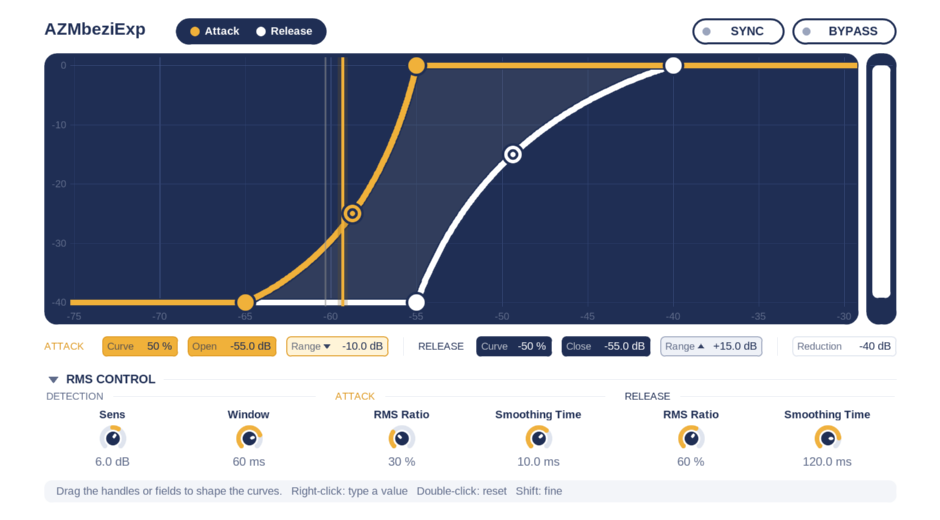
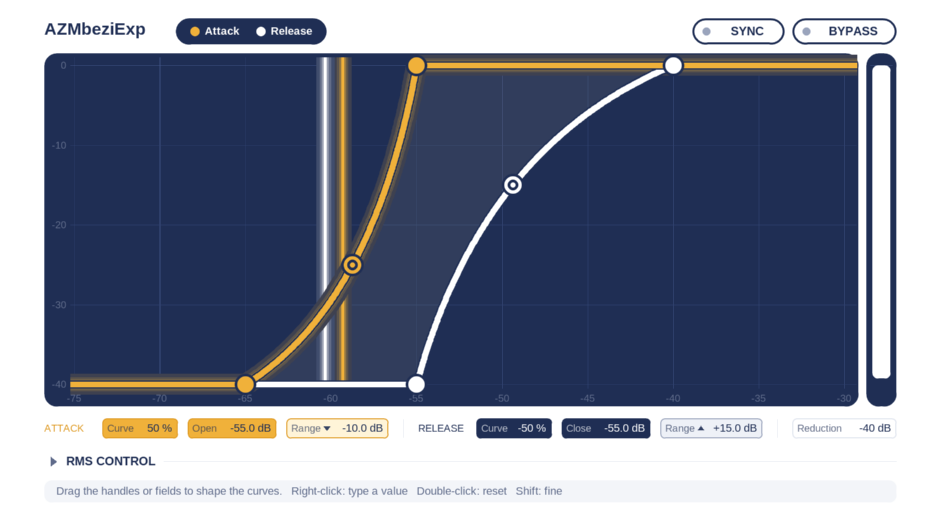
Glow the active curve, restyle detection bars, start with RMS Control closed
- Detection bars: curve colours, same glow as the curves, drawn behind them, constant look
- Remove the afterimage trail
- Glow the curve that decides the target gain (2 ms smoothing)
- RMS Control defaults to closed

Changed region(s): [[0.0309, 0.0923, 0.9564, 0.8923]]

diff --git a/tests/test_ysfx.cpp b/tests/test_ysfx.cpp
@@ -297,7 +297,7 @@ static void test_defaults()
     Effect e;
     const double expected[][2] = {
         {1, 60}, {2, 10}, {3, -55}, {4, 60}, {6, -55}, {7, 15}, {8, -60},
-        {9, 6}, {10, 60}, {11, 10}, {12, 120}, {13, 30}, {14, 60}, {16, 1},
+        {9, 6}, {10, 60}, {11, 10}, {12, 120}, {13, 30}, {14, 60}, {16, 0},
     };
     for (const auto &entry : expected)
         near(e.get(int(entry[0])), entry[1], 1e-9, "default value");
@@ -401,45 +401,57 @@ static void test_axis_and_screenshot()
     }
 }
 
-// Detection bars: line only (no labels), a short afterimage trail, and fade-out near the graph edge.
+// Detection bars: lines in the curve colours with the same glow, constant and behind the curves (no
+// labels), fading out near the graph edge; the curve that decides the target gain glows as well.
 static void test_detection_bars()
 {
     Gui e;
     e.settle();
-    auto red = [&](double x, double y) { return int(e.pixels[(size_t(y) * 940 + size_t(x)) * 4 + 2]); };
+    auto px = [&](double x, double y, int ch) { return int(e.pixels[(size_t(y) * 940 + size_t(x)) * 4 + ch]); };
+    auto red = [&](double x, double y) { return px(x, y, 2); };
+    auto peak = [&](double x, double y) {
+        int m = 0;
+        for (int d = -2; d <= 2; ++d) m = std::max(m, red(x + d, y));
+        return m;
+    };
+    auto blue = [&](double x, double y) { return px(x, y, 0); };
     // The displayed level decays slightly between frames, so positions are read back after each frame.
-    auto frame = [&](double a) {
+    auto frame = [&](double a, double up) {
         e.set_var("m_a", 0); e.set_var("m_r", 0);
         e.set_var("ui_a", a); e.set_var("ui_r", -120);
-        e.set_var("m_up", 1); e.set_var("ui_hl", 1);
+        e.set_var("m_up", up); e.set_var("ui_hl", up);
         e.mouse(0, 0, 0);
         return e.xpix(e.var("ui_a"));
     };
     double y = e.px("pl_y") + 120;
 
-    double x1 = frame(-47);
-    int bar = red(x1, y);
-    check(bar > 150, "attack bar is drawn at the detected level");
+    double x1 = frame(-47, 1);
+    int bar = peak(x1, y);
+    check(bar > 200, "attack bar is crisp at the detected level");
+    check(red(x1 + 14, y) < 100 && red(x1 - 14, y) < 100, "no wide fill beside the bar");
     check(red(x1 + 15, e.px("pl_y") + 32 + 7) < 100, "no label chip next to the bar");
+    check(red(x1 + 6, y) > red(x1 + 14, y) + 10, "the bar has a glow around it");
+    double x1i = frame(-47, 0);
+    check(std::abs(peak(x1i, y) - bar) <= 10, "the bar looks the same whichever side decides the gain");
 
-    double x2 = frame(-37);
-    double ts[4];
-    ysfx_read_vmem(e.fx, uint32_t(e.var("TH")), ts, 4);
-    near(ts[0], e.var("ui_a"), 1e-9, "newest history entry is the current attack level");
-    near(ts[2], -47, 0.5, "previous attack level is kept for the trail");
-    int ghost = red(x1, y);
-    check(ghost > 50 && ghost < bar, "previous position remains as a faint afterimage");
-    check(red(x2, y) > ghost, "current bar is brighter than its afterimage");
+    // Curves are drawn over the bars: the Release curve's flat bottom hides the bar where they meet.
+    double x5 = frame(-60, 1);
+    check(blue(x5, e.px("g_b")) > 200 && blue(x5, y) < 120, "the bar is behind the curves");
 
-    for (int i = 0; i < 12; ++i) x2 = frame(-37);
-    check(red(x1, y) < 60, "afterimage disappears after a few frames");
-
-    frame(e.var("v_lo") - 5);
+    frame(e.var("v_lo") - 5, 1);
     check(red(e.px("g_x0"), y) < 100, "bar outside the graph is not drawn at the edge");
-    double x3 = frame(e.var("v_lo") + 2);
-    int near_edge = red(x3, y);
-    double x4 = frame(-47);
-    check(near_edge < red(x4, y), "bar fades out as it approaches the edge");
+    double x3 = frame(e.var("v_lo") + 1, 1);
+    int near_edge = peak(x3, y);
+    double x4 = frame(-47, 1);
+    check(near_edge < peak(x4, y), "bar fades out as it approaches the edge");
+
+    // Glow around the bottom (Close) segment shared by both curves: amber for Attack, white for Release.
+    double gx = e.px("g_x0") + 20, gy = e.px("g_b") - 5;
+    double far_y = gy - 30;
+    frame(e.var("v_lo") - 5, 1);
+    check(blue(gx, gy) < 95 && red(gx, gy) > red(gx, far_y) + 20, "attack curve glows while it decides the gain");
+    frame(e.var("v_lo") - 5, 0);
+    check(blue(gx, gy) > 105, "release curve glows while it decides the gain");
 }
 
 static void test_range_field()
@@ -460,7 +472,9 @@ static void test_range_field()
 static void test_collapse_and_knobs()
 {
     Gui e;
-    near(e.get(16), 1, 0, "RMS Control starts open");
+    near(e.get(16), 0, 0, "RMS Control starts closed");
+    e.set(16, 1);
+    e.mouse(0, 0, 0);
     e.set(11, 4);
     e.set(12, 20);
     double kw = e.px("kw"), mg = e.px("mg"), gg = e.px("gg");

diff --git a/README.md b/README.md
@@ -4,7 +4,7 @@
 
 音量の上昇と下降にそれぞれカーブを設定し、Peak と RMS の混合比や平滑化時間を独立して調整できます。カーブは制御点1つの2次ベジェで、強さを1つの値で決めます。フルバンド・ステレオリンクで処理し、ルックアヘッドによる遅延はありません。
 
-![AZMbeziExp の画面。Attack と Release のカーブと検知レベルの縦棒、SYNC と BYPASS、RMS CONTROL のつまみを表示](docs/gui.png)
+![AZMbeziExp の画面。Attack と Release のカーブと検知レベルの縦棒（カーブと同色で光る）と、目標ゲインを決めているカーブの発光、SYNC と BYPASS、閉じた状態の RMS CONTROL を表示](docs/gui.png)
 
 ## 導入
 
@@ -24,7 +24,9 @@ JSFX に対応したホストのエフェクト用フォルダに [`jsfx/AZMbezi
 
 **カーブの決め方（基準＋相対ゲイン）**: Attack は **Open** を基準に、そこから **Range** dB 下が Close です（Close = Open − Range）。Release は **Close** を基準に、そこから **Range** dB 上が Open です（Open = Close + Range）。基準のハンドル（Attack の Open、Release の Close）をドラッグするとカーブ全体が横へ動き、もう一方のハンドルは Range を変えます。Release の Open は 0 dB を超えません。曲線の中点にあるハンドルは斜めにドラッグし、右下方向（＋）で後から開き、左上方向（−）で早く開きます。ダブルクリックまたは Ctrl+クリックで既定値に戻します。右側の縦バーは実ゲインを示します。
 
-**検知レベルの縦棒**: グラフ上の 2 本の縦棒が、Attack 側と Release 側それぞれの検知レベル（Peak と RMS を各 RMS Ratio で混合した値）を示し、横へ動きます。文字などの表示はなく、線だけです。いま目標ゲインを決めている側（傾き検知で選ばれたカーブ）の棒が太く明るく表示されます。動きがなめらかに見えるよう、直近数フレーム分の位置が薄い残像として残ります。棒がグラフの左右の端に近づくとフェードアウトし、範囲外では表示されません。
+**検知レベルの縦棒**: グラフ上の 2 本の縦棒が、Attack 側と Release 側それぞれの検知レベル（Peak と RMS を各 RMS Ratio で混合した値）を示し、横へ動きます。色は各カーブと同じ（Attack は山吹色、Release は白）で、カーブと同じように光り、カーブより後ろに描かれます。文字などの表示はなく、棒の見た目は常に一定です。棒がグラフの左右の端に近づくとフェードアウトし、範囲外では表示されません。
+
+**カーブの発光**: いま目標ゲインを決めている側（傾き検知で選ばれたカーブ）が光ります。切り替えは約 2 ms の時定数でなめらかに行います（SYNC On のときは Attack カーブが常に光ります）。
 
 **横軸の範囲**: 使用中のカーブの最小 Close と最大 Open から、それぞれ 10 dB 外側まで自動で設定されます。ハンドルや欄をドラッグしている間は動かず、離すとなめらかに追従します。
 
@@ -36,7 +38,7 @@ JSFX に対応したホストのエフェクト用フォルダに [`jsfx/AZMbezi
 
 ### RMS CONTROL
 
-グラフ下の **RMS CONTROL** の見出しの矢印をクリックすると、つまみのセクションを開閉します（開閉状態は保存されます）。閉じるとグラフが広がります。
+グラフ下の **RMS CONTROL** の見出しの矢印をクリックすると、つまみのセクションを開閉します（開閉状態は保存されます）。既定では閉じた状態で起動します。閉じるとグラフが広がります。
 
 | グループ | つまみ | 内容 |
 | --- | --- | --- |
